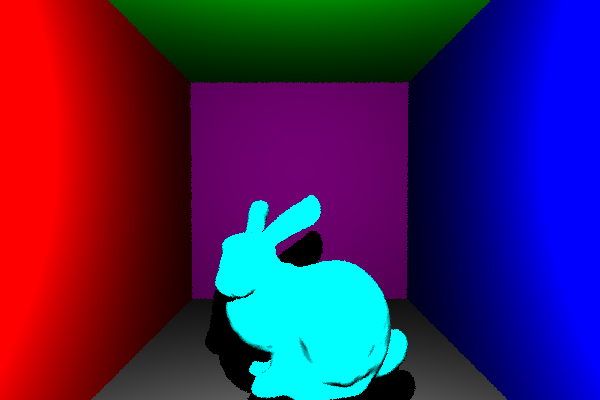
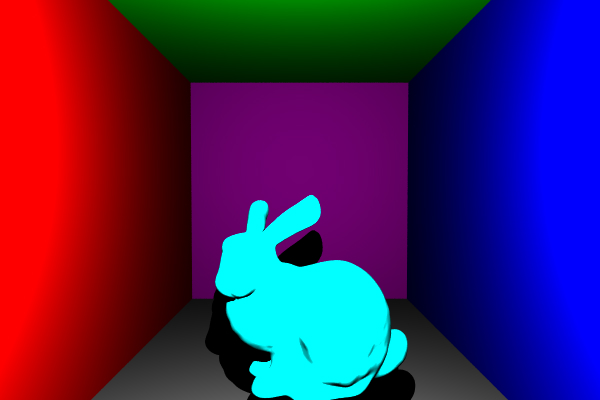
Tp6

diff --git a/src/integrators/Direct_Lighting_Integrator.cpp b/src/integrators/Direct_Lighting_Integrator.cpp
@@ -8,20 +8,11 @@ namespace RT_ISICG
 													 const HitRecord & p_hitRecord ) const
 	{
 
-		//TP3 question 3
-		/*Vec3f colorF = VEC3F_ZERO;//luminance finale
-		for (BaseLight* light : p_scene.getLights()) {//luminance de notre scene
-			LightSample ls = light->sample( p_hitRecord._point );
-			float theta	   = glm::dot( p_hitRecord._normal,ls._direction ); // angle entre normal et direction du rayon
-			float maxAngle = glm::max( theta, 0.f );	// max entre 0 et cos theta
-			colorF += p_hitRecord._object->getMaterial()->getFlatColor() * ls._radiance
-					  * maxAngle; // luminance finale	
-		}
-  		return colorF;
-		*/
-		//Tp3 question 3
-		//TP3 question 4
-		/*Vec3f colorF = VEC3F_ZERO;//luminance finale
+		
+		
+		
+		//TP3 question 2
+		/*Vec3f colorF = VEC3F_ZERO; // luminance finale
 		for (BaseLight* light : p_scene.getLights()) {//luminance de notre scene
 			LightSample ls = light->sample( p_hitRecord._point );
 			Ray			rayShadow( p_hitRecord._point, ls._direction );
@@ -38,11 +29,11 @@ namespace RT_ISICG
 				
 				
 		}
-  		return colorF;
-		*/
-		//Tp3 question 4
-		//TP4 question 3
-		Vec3f colorF = VEC3F_ZERO;//luminance finale
+  		return colorF;*/
+		
+		//Tp3 question 2
+		//TP3 question 3
+		Vec3f colorF = VEC3F_ZERO; // luminance finale
 		for (BaseLight* light : p_scene.getLights()) {//luminance de notre scene
 			LightSample ls = light->sample( p_hitRecord._point );
 			Ray			rayShadow( p_hitRecord._point, ls._direction );

diff --git a/src/main.cpp b/src/main.cpp
@@ -28,11 +28,11 @@ namespace RT_ISICG
 		//Vec3f p_lookat	 = Vec3f( 1.f, 0.f, 1.f );
 
 		//Vec3f p_position = Vec3f( 0.f, 0.f, -2.f );//Tp3
-		/* Vec3f p_position = Vec3f( 0.f, 2.f, -6.f ); // Tp4
+		/*Vec3f p_position = Vec3f( 0.f, 2.f, -6.f ); // Tp4
 		Vec3f p_lookat	 = Vec3f( 0.f, 0.f, 80.f );*/
 		//TP5
-		/*Vec3f p_position = Vec3f( 0.f, 0.f, 0.f );
-		Vec3f p_lookat	 = Vec3f( 0.f, 0.f, 1.f );*/
+		//Vec3f p_position = Vec3f( 0.f, 0.f, 0.f );
+		//Vec3f p_lookat	 = Vec3f( 0.f, 0.f, 1.f );
 		//TP6
 		Vec3f p_position = Vec3f( 0.f, 2.f, -6.f );
 		Vec3f p_lookat	 = Vec3f( 0.f, 0.f, 100.f );
@@ -54,11 +54,11 @@ namespace RT_ISICG
 		// Create and setup the renderer.
 		Renderer renderer;
 		//renderer.setIntegrator( IntegratorType::RAY_CAST ); //Pour le tp2_1 on utilise ray cast
-		//renderer.setIntegrator( IntegratorType::DIRECT_LIGHTING );
-		renderer.setIntegrator( IntegratorType::WHITTED );
+		renderer.setIntegrator( IntegratorType::DIRECT_LIGHTING );
+		//renderer.setIntegrator( IntegratorType::WHITTED );
 		renderer.setBackgroundColor( GREY );
 		//Tp1 antialiasing
-		renderer.setNbPixelSamples( 128 );
+		renderer.setNbPixelSamples( 64 );
 		//Tp1 antialiasing
 		// Launch rendering.
 		std::cout << "Rendering..." << std::endl;

diff --git a/src/geometry/triangle_mesh_geometry.hpp b/src/geometry/triangle_mesh_geometry.hpp
@@ -2,6 +2,7 @@
 #define __RT_ISICG_TRIANGLE_GEOMETRY__
 
 #include "base_geometry.hpp"
+#include "aabb.hpp"
 
 namespace RT_ISICG
 {
@@ -22,6 +23,7 @@ namespace RT_ISICG
 
 		inline const Vec3f & getFaceNormal() const { return _faceNormal; }
 		Vec3f &		 getNormal( const float & u, const float & v ) const;
+		inline const AABB &	 getAABB() const { return _aabb; }
 
 	  private:
 		MeshTriangle * _refMesh;
@@ -36,6 +38,7 @@ namespace RT_ISICG
 
 		Vec3f _faceNormal;
 		Vec3f _normals = VEC3F_ZERO;
+		AABB  _aabb;
 	};
 } // namespace RT_ISICG
 

diff --git a/src/brdfs/oren_nayar_brdf.hpp b/src/brdfs/oren_nayar_brdf.hpp
@@ -19,6 +19,7 @@ namespace RT_ISICG
 				float A = 1 - ( 0.5f * ( ( _sigma * _sigma ) / ( ( _sigma * _sigma ) + 0.33f ) ) );
 				float B = 0.45f * ( ( _sigma * _sigma ) / ( ( _sigma * _sigma ) + 0.09f ) );
 
+				//on fait dot pour avoir cos theta_i et acos pour avoir l'inverse du cos --> theta_i
 				float theta_i = glm::acos( glm::dot( p_normal, p_incidence ) );
 				float theta_o = glm::acos( glm::dot( p_normal, p_observation ) );
 

diff --git a/src/objects/triangle_mesh.cpp b/src/objects/triangle_mesh.cpp
@@ -32,6 +32,7 @@ namespace RT_ISICG
 		{
 			p_hitRecord._point	= p_ray.pointAtT( tClosest );
 			p_hitRecord._normal = _triangles[ hitTri ].getNormal(_u,_v);
+			//p_hitRecord._normal = _triangles[ hitTri ].getFaceNormal();
 			p_hitRecord.faceNormal( p_ray.getDirection() );
 			p_hitRecord._distance = tClosest;
 			p_hitRecord._object	  = this;

diff --git a/src/integrators/Direct_Lighting_Integrator.hpp b/src/integrators/Direct_Lighting_Integrator.hpp
@@ -24,7 +24,7 @@ namespace RT_ISICG
 										   const Ray &	 p_ray,
 										   const float	 p_tMin,
 										   const HitRecord & p_hitRecord ) const;
-		    int			_nbLightSamples = 32;
+		    int			_nbLightSamples = 1;
 
 
 	};
